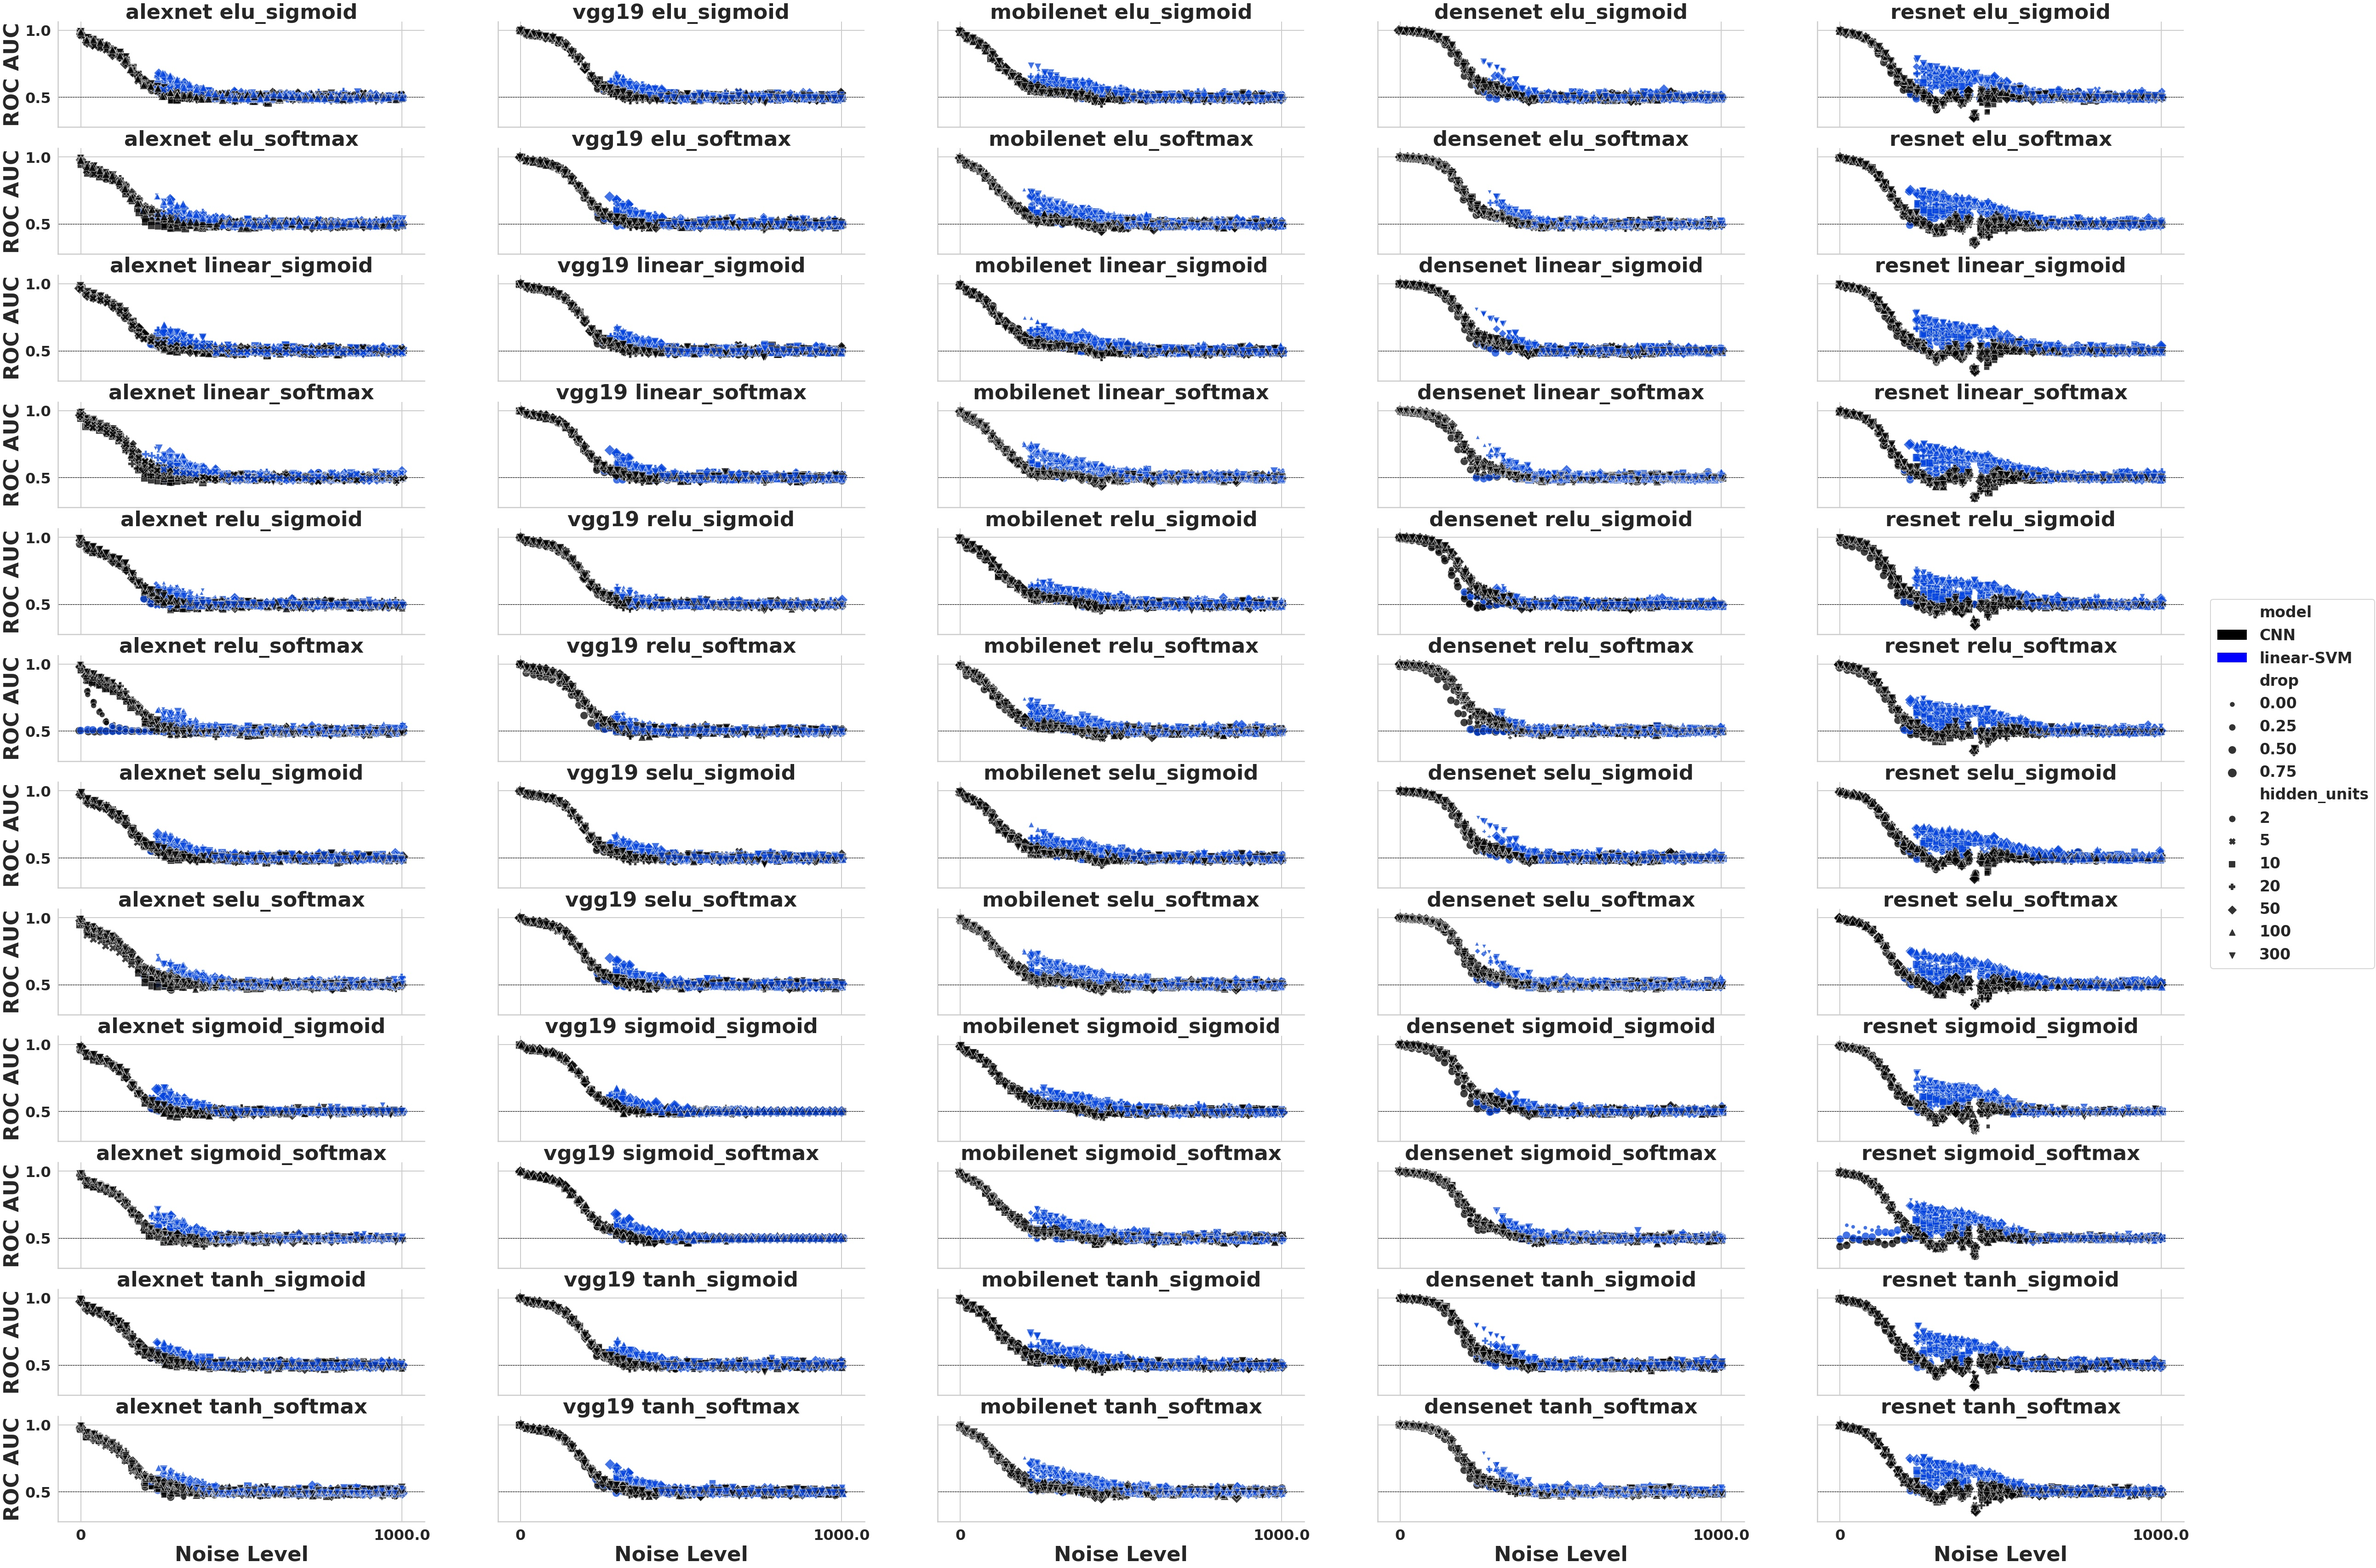
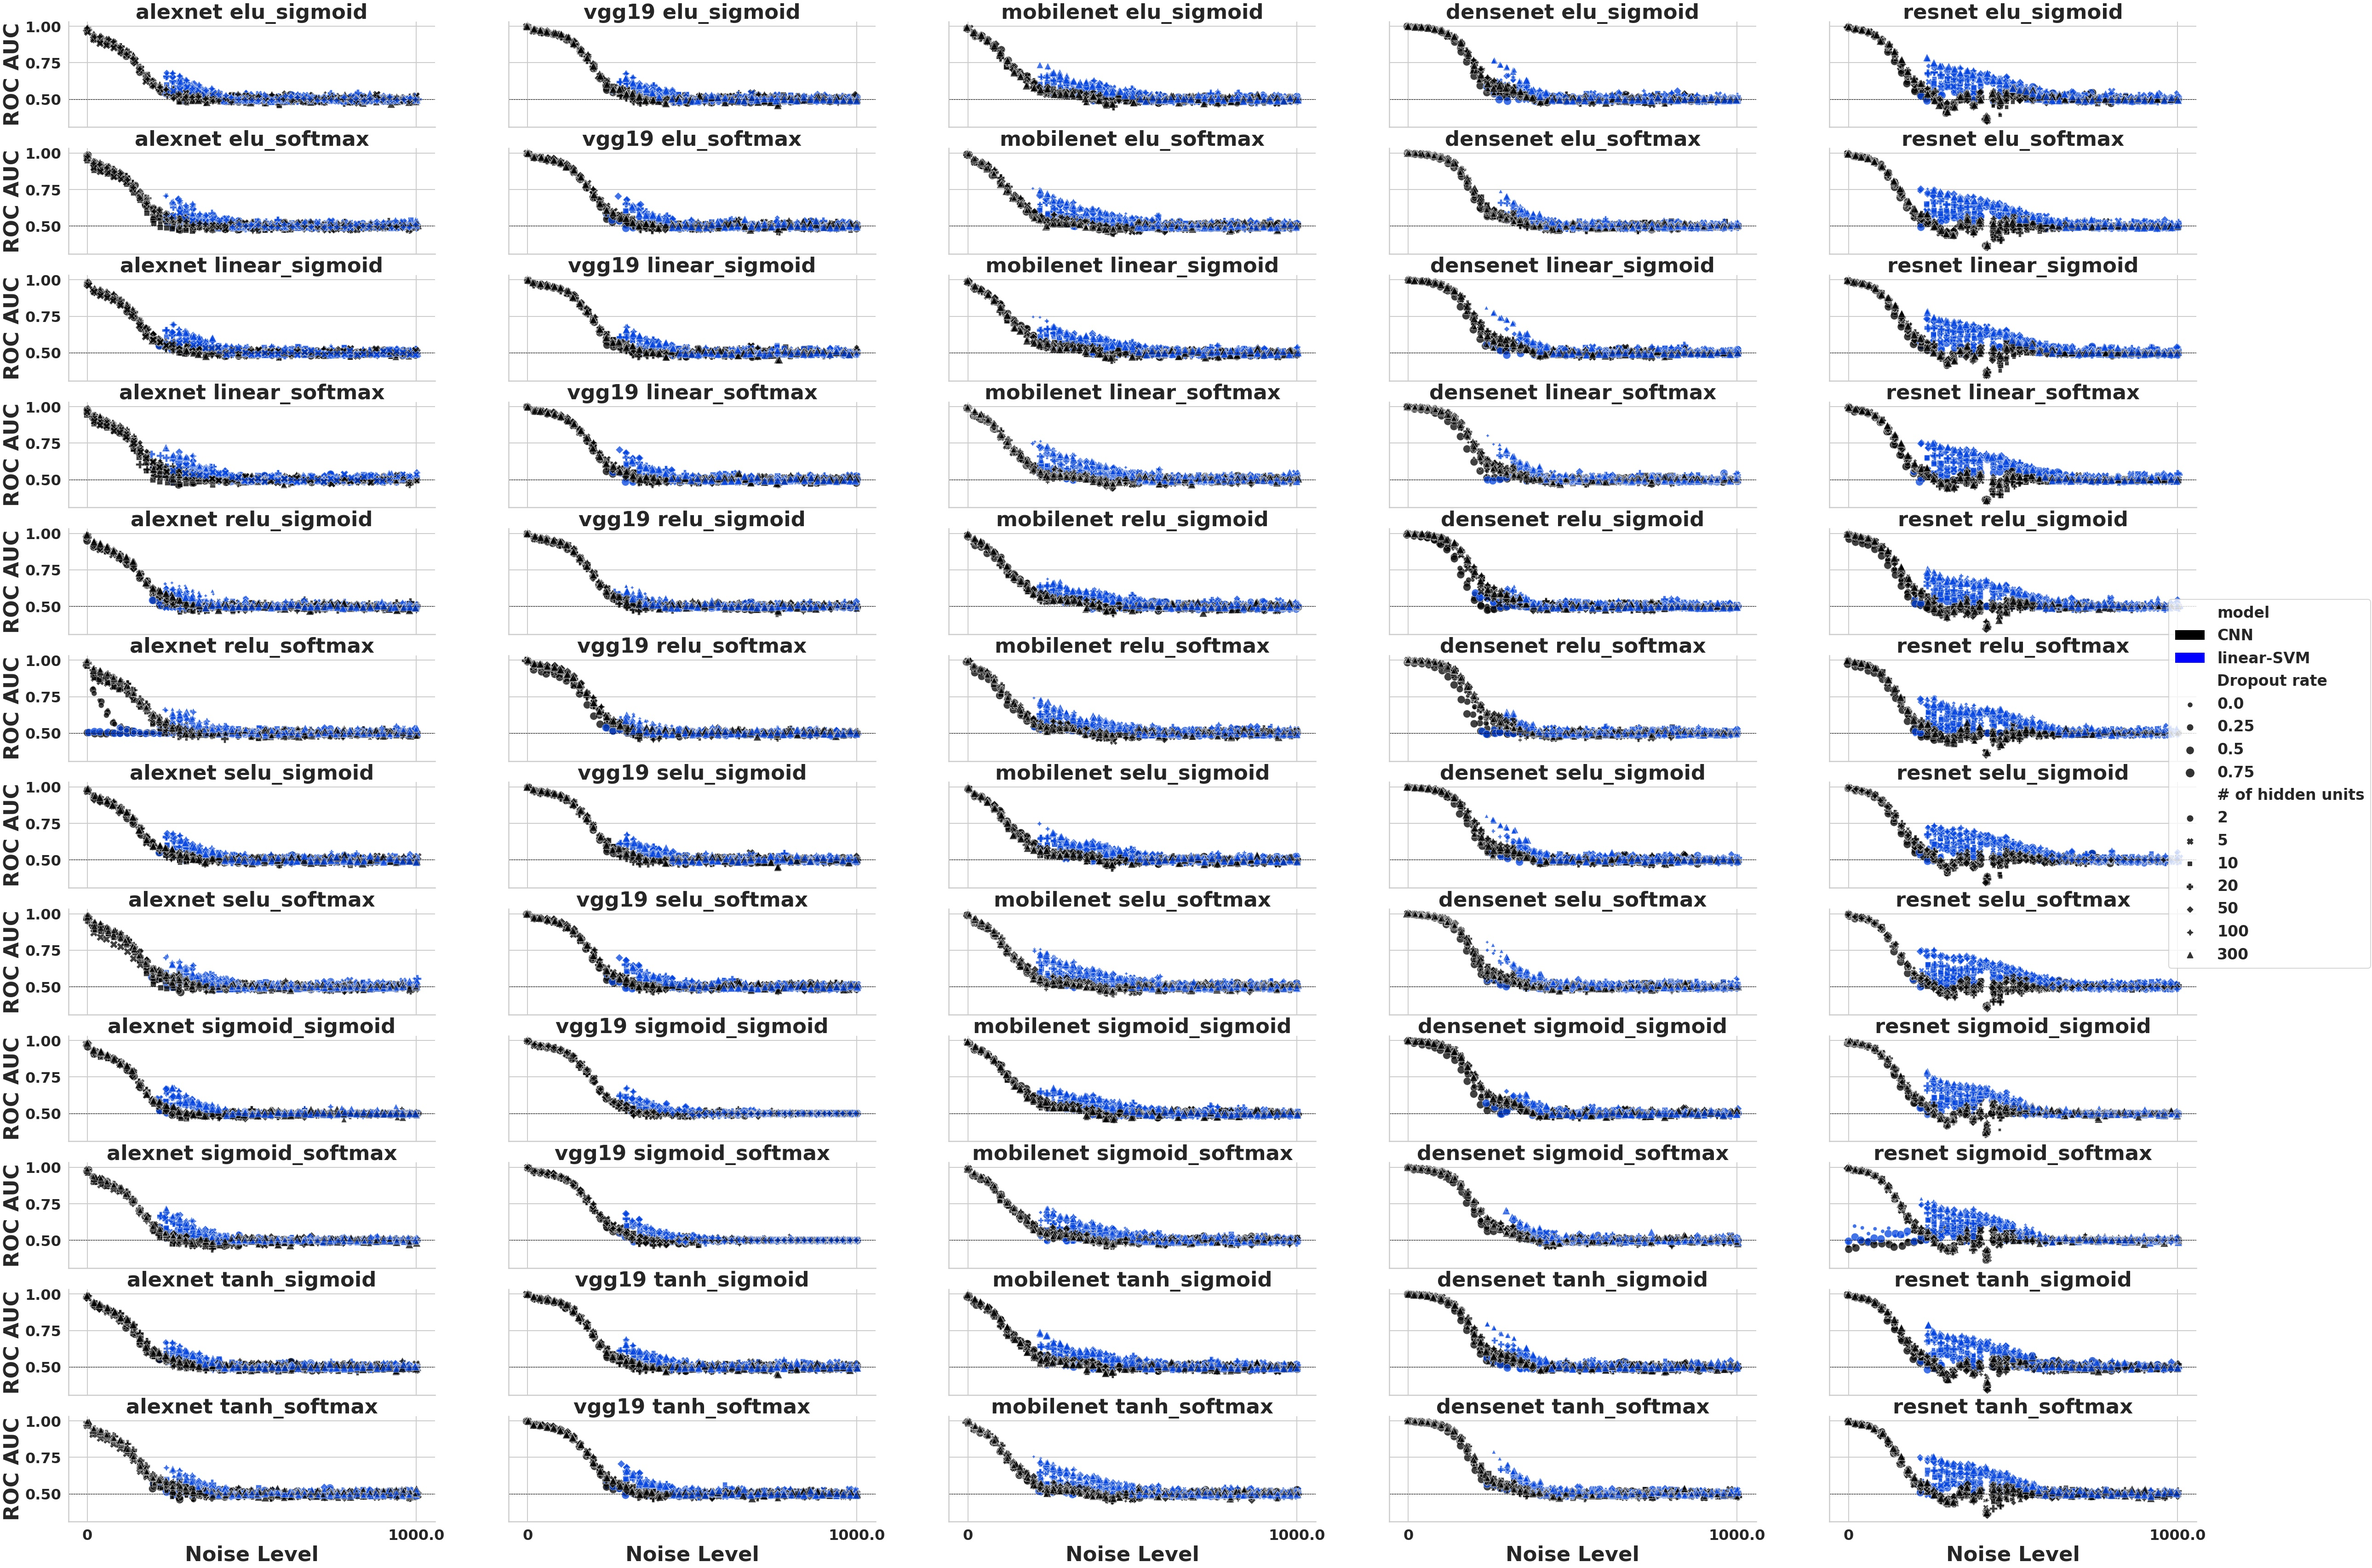
update figures, put noise levels in text

diff --git a/scripts/10.3.plot_performance.py b/scripts/10.3.plot_performance.py
@@ -204,26 +204,49 @@ g.savefig(os.path.join(paper_dir,
 
 # chance level cnn
 df_chance = df[df['cnn_pval' ] > 0.05]
-g               = sns.relplot(
-                x           = 'x',
-                y           = 'svm_score_mean',
-                hue         = 'Model name',
-                hue_order   = model_names,
-                size        = 'Dropout rate',
-                style       = '# of hidden units',
-                row         = 'hidden_activation',
-                col         = 'output_activation',
-                alpha       = alpha_level,
-                palette     = sns.xkcd_palette(['blue','orange']),
-                data        = df_chance,
-                facet_kws   = {'gridspec_kws':{"wspace":0.2}},
-                aspect      = 3,
+
+df_plot                         = df_chance.copy()
+df_plot['Decode Above Chance']  = df_plot['svm_cnn_pval'] < 0.05
+df_plot = df_plot.sort_values(['# of hidden units','Dropout rate','Model name'])
+df_plot['# of hidden units'] = df_plot['# of hidden units'].astype('category')
+k                               = len(pd.unique(df_plot['# of hidden units']))
+df_plot['x']                    = df_plot['noise_level'].round(9).map(x_map)
+df_plot['x']                    = df_plot['x'].apply(lambda x: [x + np.random.normal(0,0.1,size = 1)][0][0])
+
+bins = np.array([-0.5,idx_noise_applied,n_noise_levels + 1.5],dtype = 'float')
+def cut_bins(x):
+    if bins[0] <= x < bins[1]:
+        return 'low'
+    # elif bins[1] <= x < bins[2]:
+    #     return 'medium'
+    else:
+        return 'high'
+    
+g                               = sns.relplot(
+                x               = 'x',
+                y               = 'svm_score_mean',
+                size            = 'Dropout rate',
+                hue             = '# of hidden units',
+                hue_order       = pd.unique(df_plot['# of hidden units']),
+                style           = 'Decode Above Chance',
+                style_order     = [True, False],
+                row             = 'Model name',
+                row_order       = model_names,
+                alpha           = alpha_level,
+                data            = df_plot,
+                palette         = sns.color_palette("bright")[:k],
+                height          = 8,
+                aspect          = 4,
                 )
+(g.set_axis_labels('Noise Level','ROC AUC')
+  .set_titles('{row_name}')
+  .set(xlim = (-0.1,50.5)))
+
 [ax.axhline(0.5,
-            linestyle       = '--',
-            color           = 'black',
-            alpha           = 1.,
-            lw              = 1,
+            linestyle           = '--',
+            color               = 'black',
+            alpha               = 1.,
+            lw                  = 1,
             ) for ax in g.axes.flatten()]
 [ax.axvline(idx_noise_applied,
             linestyle       = '--',
@@ -231,22 +254,64 @@ g               = sns.relplot(
             alpha           = 1.,
             lw              = 3,
             ) for ax in g.axes.flatten()]
+[ax.text(idx_noise_applied - 0.7,
+         0.8,
+         'Low noise',
+         rotation = 90, 
+         va = 'center',
+         ) for ax in g.axes.flatten()]
+[ax.text(idx_noise_applied + 0.1,
+         0.8,
+         'High noise',
+         rotation = 270, 
+         va = 'center',
+         ) for ax in g.axes.flatten()]
 [ax.set(xticks = [0,n_noise_levels],
         xticklabels = [0,noise_levels.max()]
         ) for ax in g.axes.flatten()]
 
-(g.set_axis_labels('Noise Level','ROC AUC')
-  .set_titles('{row_name}->{col_name}'))
-handles, labels             = g.axes[0][0].get_legend_handles_labels()
-# convert the circle to irrelevant patches
-handles[1]                  = Patch(facecolor = 'blue')
-handles[2]                  = Patch(facecolor = 'orange',)
+temp = []
+for model_name,ax in zip(model_names,g.axes.flatten()):
+    df_sub = df_plot[df_plot['Model name'] == model_name]
+    df_sub['groups'] = df_sub['x'].apply(cut_bins)
+    counter = df_sub.groupby(['groups','Decode Above Chance']).count().reset_index()[['groups','Decode Above Chance','x']]
+    sum_of_group = counter['x'].values[::2] + counter['x'].values[1::2]
+    counter['proportion'] = counter['x'].values / np.repeat(sum_of_group,2)
+    counter['Model name'] = model_name
+    temp.append(counter)
+    
+    ax.axvline(bins[1],linestyle = '--' ,color = 'black', alpha = 0.6)
+    
+    tiny_ax = ax.inset_axes([.6,.6,.3,.3])
+    tiny_ax = sns.barplot(x = 'groups',
+                          order = ['low','high'],
+                          y = 'proportion',
+                          hue = 'Decode Above Chance',
+                          hue_order = [True,False],
+                          data = counter,
+                          ax = tiny_ax,
+                          palette = ['green','red'],
+                          )
+    # tiny_ax.set(xticklabels = ['low','medium','high'],
+    tiny_ax.set_xlabel('Noise level',fontsize = 18)
+    tiny_ax.set_ylabel('Decoding rate',fontsize = 18)
+    tiny_handles,tiny_labels = tiny_ax.get_legend_handles_labels()
+    tiny_ax.get_legend().remove()
+    
+df_proportion = pd.concat(temp)
+df_proportion.to_csv(os.path.join(paper_dir.replace('figures','stats'),
+                                  'trained with noise CNN_chance_decode_proportion.csv'),
+                     index = False)
+handles, labels                 = g.axes[0][0].get_legend_handles_labels()
+[handles.append(item) for item in tiny_handles]
+[labels.append(item) for item in ['Decode Above Chance','Decode At Chance']]
 g._legend.remove()
+for ii,color in enumerate(sns.color_palette("bright")[:k]):
+    handles[ii + 1]             = Patch(facecolor = color)
 g.fig.legend(handles,
              labels,
-             loc            = "center right",
-             borderaxespad  = 0.1)
-
+             loc = "center right",
+             borderaxespad = 0.1)
 g.savefig(os.path.join(paper_dir,
                        'trained with noise chance cnn.jpg'),
           dpi = 100,

diff --git a/scripts/4.1.plot_performance.py b/scripts/4.1.plot_performance.py
@@ -112,6 +112,14 @@ g               = sns.relplot(
 (g.set_axis_labels('Noise Level','ROC AUC')
   .set_titles('{col_name} {row_name}'))
 handles, labels             = g.axes[0][0].get_legend_handles_labels()
+temp = []
+for item in labels:
+    if item == 'drop':
+        item = 'Dropout rate'
+    elif item == 'hidden_units':
+        item = '# of hidden units'
+    temp.append(item)
+labels = temp
 # convert the circle to irrelevant patches
 handles[1]                  = Patch(facecolor = 'black')
 handles[2]                  = Patch(facecolor = 'blue',)
@@ -213,6 +221,24 @@ g                               = sns.relplot(
             alpha               = 1.,
             lw                  = 1,
             ) for ax in g.axes.flatten()]
+[ax.axvline(bins[1],
+            linestyle           = '--',
+            color               = 'red',
+            alpha               = 1.,
+            lw                  = 1,
+            ) for ax in g.axes.flatten()]
+[ax.text(bins[1] - 0.7,
+         0.67,
+         'Low noise',
+         rotation = 90, 
+         va = 'center',
+         ) for ax in g.axes.flatten()[:1]]
+[ax.text(bins[1] + 0.1,
+         0.67,
+         'High noise',
+         rotation = 270, 
+         va = 'center',
+         ) for ax in g.axes.flatten()[:1]]
 
 temp = []
 for model_name,ax in zip(['alexnet','vgg19','mobilenet','densenet','resnet',],g.axes.flatten()):
@@ -224,7 +250,7 @@ for model_name,ax in zip(['alexnet','vgg19','mobilenet','densenet','resnet',],g.
     counter['model_name'] = model_name
     temp.append(counter)
     
-    ax.axvline(bins[1],linestyle = '--' ,color = 'black', alpha = 0.6)
+    # ax.axvline(bins[1],linestyle = '--' ,color = 'black', alpha = 0.6)
     
     tiny_ax = ax.inset_axes([.6,.6,.3,.3])
     tiny_ax = sns.barplot(x = 'groups',
@@ -247,6 +273,14 @@ df_proportion.to_csv(os.path.join(paper_dir.replace('figures','stats'),
                                   'CNN_chance_decode_proportion.csv'),
                      index = False)
 handles, labels                 = g.axes[0][0].get_legend_handles_labels()
+temp = []
+for item in labels:
+    if item == 'drop':
+        item = 'Dropout rate'
+    elif item == 'hidden_units':
+        item = '# of hidden units'
+    temp.append(item)
+labels = temp
 [handles.append(item) for item in tiny_handles]
 [labels.append(item) for item in ['Decode Above Chance','Decode At Chance']]
 g._legend.remove()

diff --git a/scripts/9.6.specific_for_first_layer.py b/scripts/9.6.specific_for_first_layer.py
@@ -28,7 +28,7 @@ from utils_deep import (data_loader,
 
 from joblib import Parallel,delayed
 from sklearn.decomposition import PCA
-for _model_name in np.sort(['vgg19_bn','resnet50','alexnet','densenet169','mobilenet']):
+for _model_name in ['vgg19_bn','resnet50','alexnet','densenet169','mobilenet']:
 # experiment control
     model_dir               = '../models'
     results_dir             = '../results/first_layer_only'
@@ -109,7 +109,7 @@ for _model_name in np.sort(['vgg19_bn','resnet50','alexnet','densenet169','mobil
             n_epochs        = n_epochs,
             print_train     = True,
             patience        = 5,
-            n_noise         = 0,
+            n_noise         = 1,
             train_root      = train_root,
             valid_root      = valid_root,)
     

diff --git a/scripts/utils_deep.py b/scripts/utils_deep.py
@@ -95,6 +95,15 @@ def hidden_activation_functions(activation_func_name):
                  )
     return funcs[activation_func_name]
 
+def _cut_bins(x,n_noise_levels = 50):
+    _,bins          = pd.cut(np.arange(n_noise_levels),2,retbins = True)
+    if bins[0] <= x < bins[1]:
+        return 'low'
+    # elif bins[1] <= x < bins[2]:
+    #     return 'medium'
+    else:
+        return 'high'
+
 def output_activation_functions(activation_func_name):
     funcs = dict(softmax = F.log_softmax,
                  sigmoid = F.logsigmoid,
